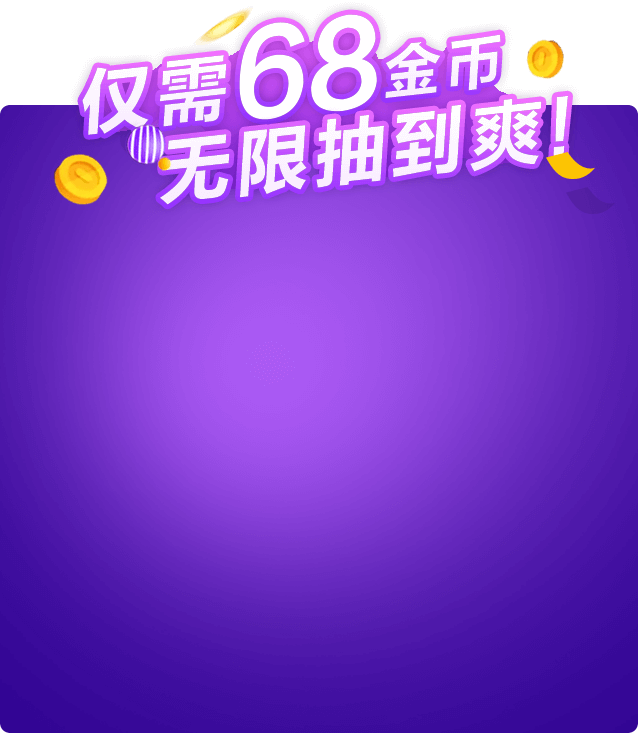
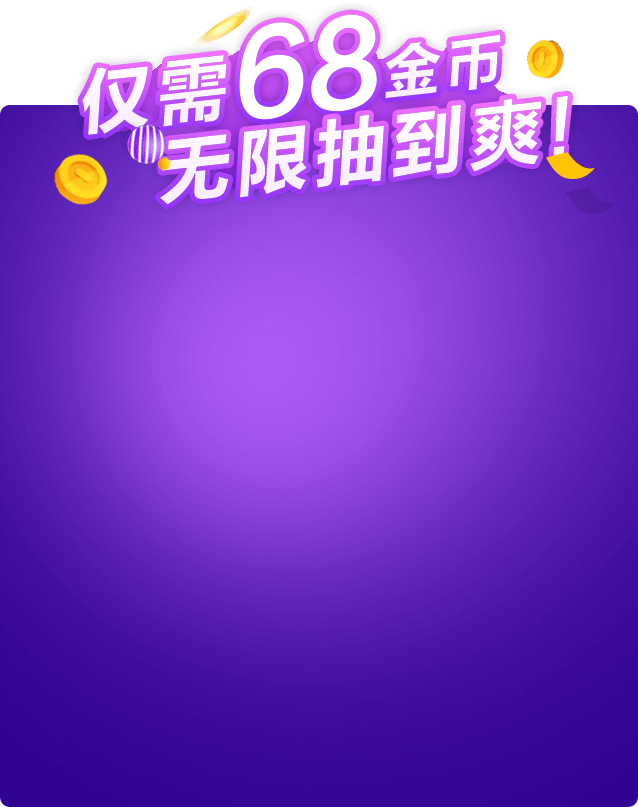
modif

Changed region(s): [[0.0, 0.0, 1.0, 0.3001], [0.2978, 0.6603, 0.5361, 0.8104], [0.9828, 0.9905, 1.0, 1.0]]

diff --git a/public/client/css/vip-node.css b/public/client/css/vip-node.css
@@ -604,9 +604,9 @@
     background-color: #fff;
     padding: 0.15rem 0.2rem;
     border-radius: 0.2rem;
-    margin: -4.65rem 1.2rem 0.25rem 1.2rem;
+    margin: -5.3rem 1.2rem 0.25rem 1.2rem;
     position: relative;
-    height: 2.9rem;
+    height: 3rem;
 }
 
 
@@ -645,7 +645,7 @@
    	cursor: pointer;
     text-align: center;
     padding: 0;
-    margin-top: 0.2rem;
+    margin-top: 0.45rem;
     font-size: 0.3rem;
     position: relative;
 }
@@ -657,8 +657,8 @@
 #modal-isnewbie .btn-close {
 	cursor: pointer;
     padding: 0;
-    height: 33px;
-    width: 33px;
+    height: 0.8rem;
+    width: 0.8rem;
     margin: 0;
 }
 
@@ -702,6 +702,7 @@
 	background-color: rgba(0, 0, 0, 0.5) !important;
 }
 
-#modal-isnewbie .modal.in .modal-dialog {
+#modal-isnewbie .modal-dialog {
+	width: 100%;
     margin: 0 0 0 0;
 }
